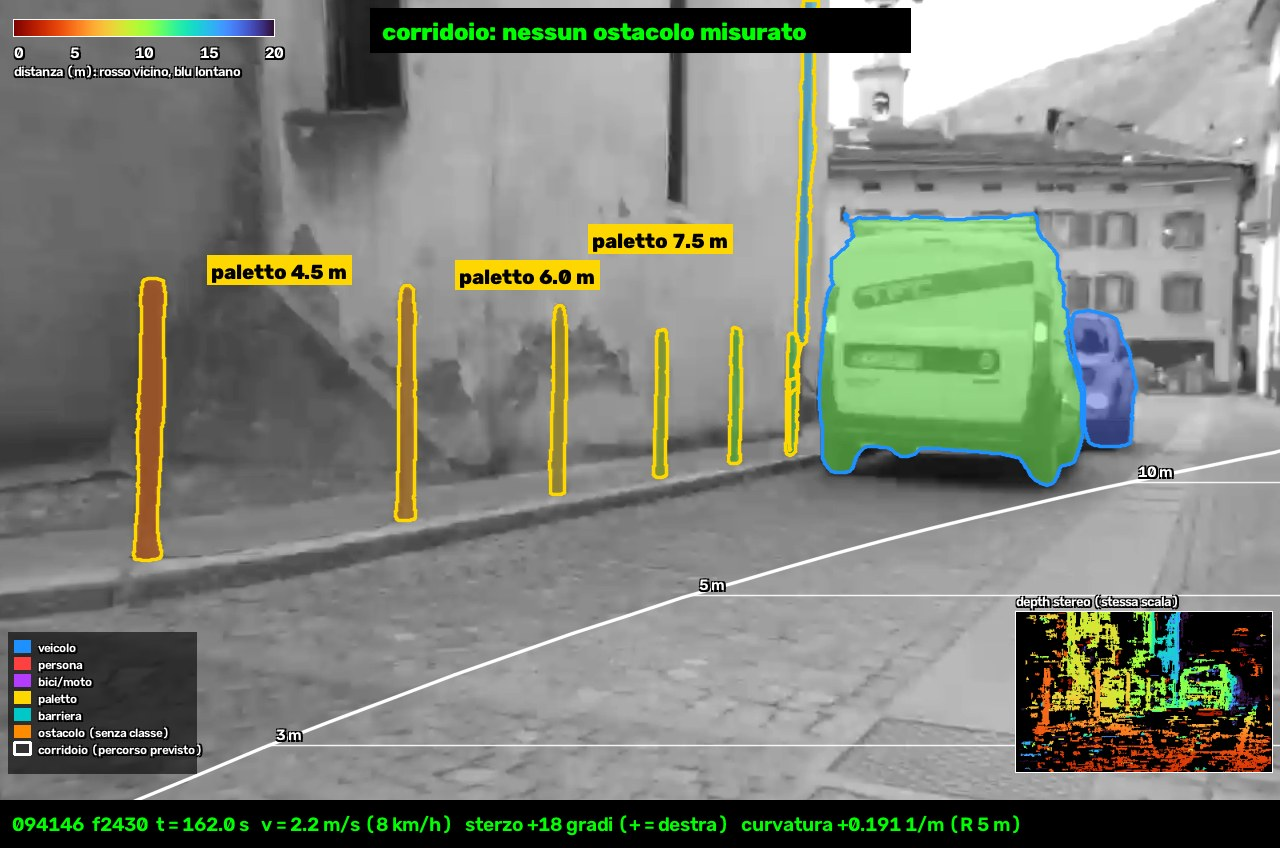
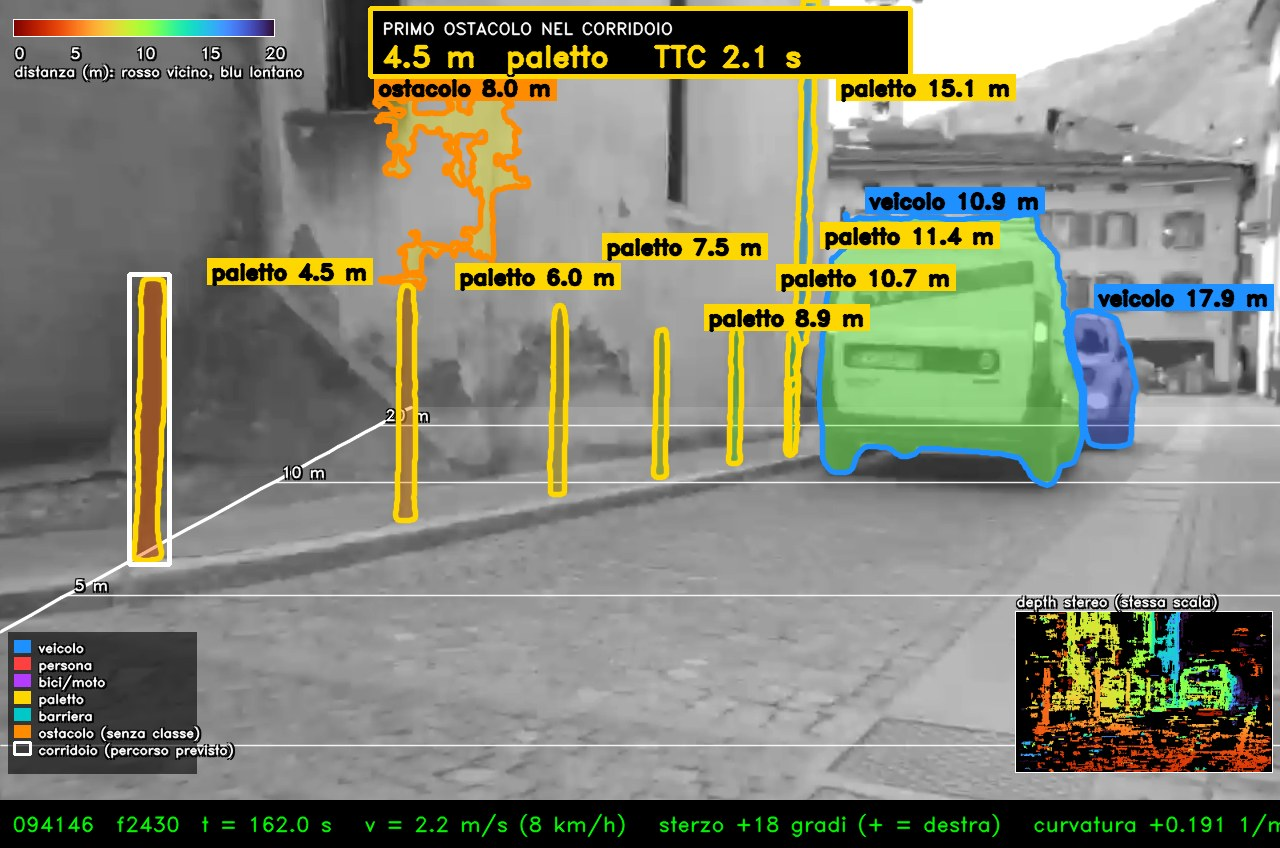
depth video #001 giro 7: blob a 3 fotogrammi sotto 5 m, corridoio a tre ipotesi (dritto, curvo, arco) con +0.1Z, Z grezza se il Kalman allontana di >0.7 m

diff --git a/projects/asmile/training/depth/video_fluido_001.py b/projects/asmile/training/depth/video_fluido_001.py
@@ -10,10 +10,17 @@ import os, sys, json, pickle, subprocess, argparse, csv
 import numpy as np, cv2
 from scipy.optimize import linear_sum_assignment
 import depth_seg_001 as D
-from ego_001 import Ego, x_path, path_xz
+from ego_001 import Ego, x_path, path_xz, x_arc
 
 W, H, BAR = 1280, 800, 48
-OUT = os.path.join(D.HERE, "out_20261112_v6")
+MODE = os.environ.get("VFMODE", "v7")          # "v6" = regole del giro 6 (per il prima/dopo), "v7" = regole del giro 7
+PURE = os.environ.get("VF_PURE", "1") == "1"      # v7: terza ipotesi = arco a curvatura costante (il percorso reale in curva stretta si avvolge piu' del previsto)
+EXTRA = float(os.environ.get("VF_EXTRA", "0.1"))   # allargamento aggiuntivo del corridoio per m di distanza (m/m), 0 = nessuno
+OUT_A = os.path.join(D.HERE, "out_20261112_v6")  # stadio A (misure per fotogramma) INVARIATO: riletto da v6
+OUT = os.environ.get("VF_OUT", os.path.join(D.HERE, "out_20261112_v7"))
+os.makedirs(OUT, exist_ok=True)
+Z_RAW_GAP, Z_RAW_MAXZ = 0.7, 8.0   # v7 punto 3: se Z_filtrata - Z_grezza > 0.7 m sotto 8 m si usa la grezza (vince la piu' vicina)
+HITS_BLOB_NEAR, ZNEAR_BLOB = 3, 5.0  # v7 punto 1: sotto 5 m un blob senza classe conferma a 3 fotogrammi come gli altri
 SAM_DIR = os.path.join(D.HERE, "..", "..", "asmile-loggers", "_seg_sam3")
 FAMCOL = {"veicolo": (255, 144, 30), "persona": (64, 64, 255), "bici-moto": (255, 60, 180), "paletto-palo": (0, 215, 255),
           "barriera-cancello": (200, 200, 0), "altro": (170, 170, 170), "ostacolo": (0, 140, 255)}
@@ -36,6 +43,20 @@ def zcol(Z):
 
 
 def wband(Z): return 1.5 + 0.03 * Z
+
+
+def corr_edges(xc, Z):
+    """bordi laterali del corridoio disegnato: v6 = banda attorno al percorso curvo; v7 = inviluppo delle due ipotesi (percorso curvo e dritto)"""
+    if MODE != "v7": return xc - wband(Z), xc + wband(Z)
+    w = wband(Z) + EXTRA * Z
+    return min(xc, 0.0) - w, max(xc, 0.0) + w   # (l'arco puro, terza ipotesi, vale per la classificazione degli oggetti; il disegno mostra l'inviluppo dritto/decrescente)
+
+
+def need_hits(r):
+    """fotogrammi richiesti perche' un oggetto conti come candidato/si disegni: blob 8 (v6); in v7 sotto 5 m anche i blob 3"""
+    if r["src"] != "blob": return CONFIRM
+    if MODE == "v7" and r["Z"] < ZNEAR_BLOB: return HITS_BLOB_NEAR
+    return HITS_BLOB
 
 
 def iou(a, b):
@@ -62,7 +83,7 @@ class Track:
         sa = 0.3 if s.stat else 1.0
         s.sa = sa; s.x = np.array([Z, 0.0]); sg = s.sig(Z); s.P = np.diag([sg ** 2, (0.3 if s.stat else 1.0) ** 2])
         s.out = 0; s.tan = o["X"] / max(o["Z_picco"], 0.1); s.decl = [bool(o["declassato"])]; s.sosp = [bool(o["sospetto"])]
-        s.in_arc = False; s.lastfirst = False; s.lab_xy = None; s.o = o; s.Zraw = [o["Z_picco"]]; s.t_obs = [t]; s.Zf = [Z]; s.s_obs = []
+        s.in_arc = False; s.in_str = False; s.lastfirst = False; s.lab_xy = None; s.o = o; s.Zraw = [o["Z_picco"]]; s.t_obs = [t]; s.Zf = [Z]; s.s_obs = []
 
     @staticmethod
     def sig(Z): return float(np.hypot(0.03 * Z, Z * Z * 0.4 / (F_PX * B_M)))
@@ -136,7 +157,9 @@ def run_tracking(frames, ego, famv2):
             if tr.hits >= CONFIRM and tr.miss <= COAST:
                 tr.fam = max(set(tr.fams[-15:]), key=tr.fams[-15:].count)
                 pb = [int(v) for v in tr.pred_box(0.0)] if tr.miss else list(tr.o["box"])
-                rows.append(dict(id=tr.id, fam=tr.fam, src=tr.src, classe=tr.classe, Z=float(tr.x[0]), w=float(tr.x[1]), Zraw=float(tr.o["Z_picco"]), tan=float(tr.tan), box=pb, poly=None if tr.miss else tr.o["poly"],
+                zf = float(tr.x[0]); zr = float(tr.o["Z_picco"]); zu = zf
+                if MODE == "v7" and not tr.miss and zf - zr > Z_RAW_GAP and zf < Z_RAW_MAXZ: zu = zr    # punto 3: il filtro non allontana: vince la grezza (piu' vicina)
+                rows.append(dict(id=tr.id, fam=tr.fam, src=tr.src, classe=tr.classe, Z=zu, Zf=zf, rawfix=zu != zf, w=float(tr.x[1]), Zraw=float(tr.o["Z_picco"]), tan=float(tr.tan), box=pb, poly=None if tr.miss else tr.o["poly"],
                                  decl=bool(np.mean(tr.decl[-8:]) > 0.5), sosp=bool(np.mean(tr.sosp[-8:]) > 0.5), ext=tr.o.get("ext", False), hits=tr.hits, coast=tr.miss > 0, track=tr))
         per.append(rows)
     return per
@@ -150,10 +173,16 @@ def corridor_logic(per, frames, ego):
         for r in rows:
             Z = r["Z"]; X = r["tan"] * Z; r["X"] = X
             dx_arc = X - float(np.interp(Z, pz, px)); tr = r["track"]
-            lim = wband(Z) * (1.15 if tr.in_arc else 1.0)
+            lim = (wband(Z) + (EXTRA * Z if MODE == "v7" else 0.0)) * (1.15 if tr.in_arc else 1.0)
             tr.in_arc = abs(dx_arc) <= lim; r["in_arc"] = tr.in_arc
             r["in_str"] = abs(X) <= wband(Z)
-            r["cand"] = (not r["decl"]) and (not r["sosp"]) and r["hits"] >= (HITS_BLOB if r["src"] == "blob" else CONFIRM)
+            if MODE == "v7":   # punto 2: corridoio = unione delle ipotesi (percorso curvo O dritto), ognuna con la sua banda
+                lim2 = (wband(Z) + EXTRA * Z) * (1.15 if tr.in_str else 1.0)
+                tr.in_str = abs(X) <= lim2
+                r["in_arc_pure"] = r["in_arc"]; r["in_arc"] = bool(r["in_arc"] or tr.in_str); r["in_str"] = bool(r["in_str"] or tr.in_str)
+                if PURE and not r["in_arc"]:
+                    r["in_arc"] = bool(abs(X - float(x_arc(k, Z))) <= wband(Z) + EXTRA * Z)
+            r["cand"] = (not r["decl"]) and (not r["sosp"]) and r["hits"] >= need_hits(r)
         first = {}
         for key, flag in (("arc", "in_arc"), ("str", "in_str")):
             c = [r for r in rows if r[flag] and r["cand"]]
@@ -198,7 +227,8 @@ def draw(img, fr, rows, cs, gp, zthumb, ego, sess, t0, i):
         Zs = np.geomspace(1.8, 30.0, 40); pz, px = path_xz(k); Lp, Rp, Cp = [], [], []
         for Z in Zs:
             xc = float(np.interp(Z, pz, px)); d = F_PX * B_M / Z
-            for X, o in ((xc - wband(Z), Lp), (xc + wband(Z), Rp), (xc, Cp)):
+            lo, hi = corr_edges(xc, Z)
+            for X, o in ((lo, Lp), (hi, Rp), (xc, Cp)):
                 u = cx + X * F_PX / Z; o.append((u, gvh + (d - gb * (u - cx)) / ga))
         poly = np.array(Lp + Rp[::-1], np.int32)
         lay = out.copy(); cv2.fillPoly(lay, [poly], CORR); out = cv2.addWeighted(lay, 0.13, out, 0.87, 0)
@@ -206,12 +236,12 @@ def draw(img, fr, rows, cs, gp, zthumb, ego, sess, t0, i):
         for Zt in (3, 5, 10, 20):
             xc = float(np.interp(Zt, pz, px)); d = F_PX * B_M / Zt
             pts = []
-            for X in (xc - wband(Zt), xc + wband(Zt)):
+            for X in corr_edges(xc, Zt):
                 u = cx + X * F_PX / Zt; pts.append((int(u), int(gvh + (d - gb * (u - cx)) / ga)))
             if 0 < pts[0][1] < H - 10:
                 cv2.line(out, pts[0], pts[1], CORR, 1, cv2.LINE_AA); shadow(out, min(pts[0][0], pts[1][0]) + 8, pts[0][1] - 5, f"{Zt} m", 0.5, CORR, 1)
     first = cs["first"]["arc"]; fid = None if first is None else first["id"]
-    draw_rows = [r for r in rows if not r["coast"] and r["Z"] <= 40 and not r["decl"] and not (r["src"] == "blob" and r["hits"] < HITS_BLOB) and not r["sosp"]
+    draw_rows = [r for r in rows if not r["coast"] and r["Z"] <= 40 and not r["decl"] and not (r["src"] == "blob" and r["hits"] < need_hits(r)) and not r["sosp"]
                  and (r["src"] != "blob" or (r["in_arc"] and r["Z"] <= 8)) and (r["fam"] in ("persona", "veicolo", "bici-moto", "paletto-palo", "barriera-cancello", "ostacolo") or r["in_arc"] or r["Z"] < 8)]
     solid = [r for r in draw_rows if r["src"] != "blob"]
     cont_ = lambda a, b: max(0, min(a[2], b[2]) - max(a[0], b[0])) * max(0, min(a[3], b[3]) - max(a[1], b[1])) / max(1e-9, (a[2] - a[0]) * (a[3] - a[1]))
@@ -278,7 +308,7 @@ def draw(img, fr, rows, cs, gp, zthumb, ego, sess, t0, i):
 def main():
     ap = argparse.ArgumentParser(); ap.add_argument("session"); ap.add_argument("--jpg", default=""); ap.add_argument("--out", default=None); ap.add_argument("--stats-only", action="store_true"); a = ap.parse_args()
     sess = "session_" + a.session.replace("session_", ""); sid = sess[8:]
-    frames = pickle.load(open(os.path.join(OUT, sess + "_A", "frames.pkl"), "rb")); zf_ = os.path.join(OUT, sess + "_A", "zmap.npz"); zm = np.load(zf_) if os.path.exists(zf_) else None
+    frames = pickle.load(open(os.path.join(OUT_A, sess + "_A", "frames.pkl"), "rb")); zf_ = os.path.join(OUT_A, sess + "_A", "zmap.npz"); zm = np.load(zf_) if os.path.exists(zf_) else None
     ego = Ego(sess); famv2 = load_famv2(sess)
     per = run_tracking(frames, ego, famv2); cs = corridor_logic(per, frames, ego)
     f0, f1 = frames[0]["frame"], frames[-1]["frame"]; t0 = D.read_t(sess, "right")[0]

diff --git a/projects/asmile/training/depth/verifica_v7_001.py b/projects/asmile/training/depth/verifica_v7_001.py
@@ -1,0 +1,76 @@
+#!/usr/bin/env python3
+"""verifica_v7_001.py — confronto prima/dopo del giro 7 (12/11/2026) con la traiettoria REALE ricostruita (encoder ruota + giroscopio gz, integrati nel tempo)
+e oggetti considerati FERMI (posizione mondo = mediana sulla vita della traccia, retrospettiva). Regole fissate prima:
+ - verita' 'in percorso reale': distanza minima dell'oggetto dai punti reali percorsi dalla bici da t fino a s(t)+Z+2 m <= 1.5 m; tracce con >=6 fotogrammi di vita, non declassate/sospette;
+ - verita' primo ostacolo <5 m = oggetto vero piu' vicino in percorso reale con Z<5;
+ - ritardo = corsa piu' lunga di fotogrammi consecutivi con verita' <5 m presente e primo ostacolo del sistema (corridoio) assente o >=5 m.
+Uso: verifica_v7_001.py DIR_TRACKS [SESSIONE]"""
+import sys, os, pickle, json, numpy as np
+from ego_001 import Ego
+d = sys.argv[1]; sess = sys.argv[2] if len(sys.argv) > 2 else "20261109_094146"
+T = pickle.load(open(os.path.join(d, f"tracks_{sess}.pkl"), "rb")); ego = Ego("session_" + sess)
+t = np.array(T["t_ms"]); n = len(t)
+# traiettoria reale su griglia ego
+psi = np.concatenate([[0], np.cumsum(np.radians(0.5 * (ego.yaw_s[1:] + ego.yaw_s[:-1])) * np.diff(ego.t) / 1000)])
+vv = ego.v_s; pe = np.concatenate([[0], np.cumsum(0.5 * (vv[1:] + vv[:-1]) * np.diff(ego.t) / 1000)])
+pn = np.concatenate([[0], np.cumsum(np.cos(psi[:-1]) * 0.5 * (vv[1:] + vv[:-1]) * np.diff(ego.t) / 1000)])
+pe = np.concatenate([[0], np.cumsum(np.sin(psi[:-1]) * 0.5 * (vv[1:] + vv[:-1]) * np.diff(ego.t) / 1000)])
+sarc = ego.s - ego.s[0]
+I = lambda a, x: np.interp(x, ego.t, a)
+# posizione mondo di ogni traccia (mediana)
+W = {}
+for i, rows in enumerate(T["per"]):
+    for r in rows:
+        if r["coast"]: continue
+        ps, e0, n0 = I(psi, t[i]), I(pe, t[i]), I(pn, t[i]); Z = r["Z"]; X = r["tan"] * Z
+        W.setdefault(r["id"], []).append((e0 + Z * np.sin(ps) + X * np.cos(ps), n0 + Z * np.cos(ps) - X * np.sin(ps)))
+life = {k: len(v) for k, v in W.items()}; Wm = {k: np.median(np.array(v), 0) for k, v in W.items()}
+def dpath(k, i):
+    s0 = I(sarc, t[i]); Z = None
+    msk = (ego.t >= t[i]) & (sarc <= s0 + 80)
+    return None
+truth = []; missrun = 0; best = 0; runs = []
+veh_out = []; first_Z = []
+for i, rows in enumerate(T["per"]):
+    s0 = I(sarc, t[i]); idx = np.nonzero((ego.t >= t[i] - 200))[0]
+    best_o = None
+    for r in rows:
+        if r["coast"] or r["decl"] or r["sosp"] or life[r["id"]] < 6 or r["Z"] > 25: continue
+        Z = r["Z"]; m = (ego.t >= t[i]) & (sarc <= s0 + Z + 2.0)
+        if m.sum() < 2: continue
+        dm = np.hypot(pe[m] - Wm[r["id"]][0], pn[m] - Wm[r["id"]][1]).min()
+        r["dreal"] = dm
+        if dm <= 1.5 and (best_o is None or Z < best_o["Z"]): best_o = r
+        if dm <= 1.5 and r["fam"] == "veicolo" and not r["in_arc"] and Z < 25: veh_out.append((i, r["id"], round(Z, 1), round(dm, 2)))
+    truth.append(best_o)
+fz = T["cs"]; sysfirst = [c["firstZ"]["arc"] for c in fz]
+cur = 0; runs = []; start = None
+for i in range(n):
+    tr = truth[i]
+    if tr is not None and tr["Z"] < 5 and (sysfirst[i] is None or sysfirst[i] >= 5):
+        if start is None: start = i
+    else:
+        if start is not None: runs.append((start, i - start)); start = None
+if start is not None: runs.append((start, n - start))
+runs.sort(key=lambda x: -x[1])
+fr = np.array([tr is not None and tr["Z"] < 5 for tr in truth]); nsys = int(sum(1 for i in range(n) if fr[i] and (sysfirst[i] is None or sysfirst[i] >= 5)))
+tf = {k: 0 for k in ("vehicle", "tot")}
+vids = {}
+for (i, k, z, dm) in veh_out: vids.setdefault(k, []).append(i)
+# Kalman: Z_filtrata - Z_grezza > 0.7 sotto 8 m
+gap = [(r["Zf"] if "Zf" in r else r["Z"]) - r["Zraw"] for rows in T["per"] for r in rows if not r["coast"] and r["Zraw"] < 8 and r["Z"] < 8]
+usegap = [r["Z"] - r["Zraw"] for rows in T["per"] for r in rows if not r["coast"] and r["Zraw"] < 8 and r["Z"] < 8]
+gapn = int(sum(g > 0.7 for g in gap)); usen = int(sum(g > 0.7 for g in usegap))
+# primo ostacolo con classe/senza
+fam_first = {}
+for i, c in enumerate(T["cs"]):
+    fid = c["first"]["arc"]
+    if fid is None: continue
+    r = next((q for q in T["per"][i] if q["id"] == fid), None)
+    if r: fam_first[r["fam"]] = fam_first.get(r["fam"], 0) + 1
+out = dict(sess=sess, n=n, fotogrammi_verita_sotto5=int(fr.sum()), fotogrammi_sistema_manca=nsys, corsa_max_fr=runs[0][1] if runs else 0, corsa_max_s=round((runs[0][1] / 15), 2) if runs else 0,
+           corse_top=[(int(a), int(b)) for a, b in runs[:5]], veicoli_vicini_traiett_fuori_corridoio_fotogrammi=len(veh_out), veicoli_id=sorted(vids), veicoli_fotogrammi_per_id={str(k): (min(v), max(v), len(v)) for k, v in vids.items()},
+           kalman_gap_gt07_sotto8=gapn, kalman_gap_dopo_uso=usen, righe_sotto8=len(gap), primo_per_famiglia=fam_first,
+           fotogrammi_con_primo=int(sum(z is not None for z in sysfirst)), fotogrammi_primo_sotto5=int(sum(z is not None and z < 5 for z in sysfirst)))
+print(json.dumps(out, indent=1))
+json.dump(out, open(os.path.join(d, f"verifica_{sess}.json"), "w"), indent=1)

diff --git a/projects/asmile/agents/rapporti/depth_video_001_20261112_v7.md b/projects/asmile/agents/rapporti/depth_video_001_20261112_v7.md
@@ -1,0 +1,35 @@
+# Depth video #001, giro 7: ritardo blob, corridoio a tre ipotesi, Kalman che non allontana (12/11/2026)
+
+Verticale percezione, `asmile-depth`, gate `L1.depth_video`, solo #001 (calib provvisoria B30). Base v6. NON toccati: stadio A (misure per fotogramma, SAM 3 riusato, nessun SAM nuovo), filtro muri (non esiste), regole di distanza v5, calib. Cambia solo `training/depth/video_fluido_001.py` (stadio B). Codice del confronto: `training/depth/verifica_v7_001.py`. La modalità `VFMODE=v6` rigira le regole di ieri: `cs` identico a quello salvato in v6 (controllo fatto), quindi il prima/dopo è onesto.
+
+Video (locali, mai su git; 1350 e 406 fotogrammi, 15 fps):
+- `/Users/danielerinaldi/progetti/Moving-One-Billion-People-/projects/asmile/training/depth/out_20261112_v7/video_fluido_094146_125-215.mp4` (90.0 s)
+- `/Users/danielerinaldi/progetti/Moving-One-Billion-People-/projects/asmile/training/depth/out_20261112_v7/video_fluido_093909.mp4` (27.1 s)
+
+## Regole (fissate prima, decisione registrata)
+1. Blob senza classe: conferma a 3 fotogrammi se Z < 5 m, 8 sopra (prima sempre 8).
+2. Corridoio = unione di tre ipotesi: percorso curvo a curvatura decrescente (v6), dritto, arco a curvatura costante; ciascuna con banda `1.5 + 0.03 Z + 0.1 Z` (+0.5 m ogni 5 m, valore suggerito da occhio). Il disegno mostra l'inviluppo dritto/decrescente; l'arco costante vale per la classificazione.
+3. Z mostrata/usata = grezza se Z filtrata - Z grezza > 0.7 m e Z < 8 m (vince la più vicina).
+
+## Verifica (094146, 1350 fotogrammi; traiettoria reale encoder+gz, oggetti fermi, tracce >= 6 fotogrammi)
+Verità "in percorso reale" = oggetto entro 1.5 m dai punti realmente percorsi fino a s+Z+2 m. 308 fotogrammi con un ostacolo vero < 5 m.
+
+| Misura | v6 | v7 |
+|---|---|---|
+| Corsa max con ostacolo vero < 5 m ma sistema senza primo ostacolo < 5 m | 6 fotogrammi = 0.40 s (8 fotogrammi mancanti in tutto) | 0 (0 mancanti) |
+| Fotogrammi con veicolo entro 1.5 m dalla traiettoria reale ma fuori corridoio | 77 (id 1, 826, 837, 3041) | 0 |
+| Righe < 8 m con Z filtrata - grezza > 0.7 m | 73 | 0 dopo l'uso della grezza |
+| Fotogrammi con un primo ostacolo | 1217 | 1338 |
+
+Per arrivare a 0 veicoli: solo dritto OR decrescente 37 fotogrammi; +0.1Z 7; +0.2Z 3; arco costante senza extra 17; arco costante + 0.1Z 0. Causa dei residui: curva stretta k = 0.28 (raggio 3.5 m) a f2425-2430, il percorso reale si avvolge più del decrescente.
+Punti citati da occhio (v6 -> v7, primo ostacolo scritto): f2396 nessuno -> furgone 5.9 m; f2430 nessuno -> 4.5 m; f2445 9.4 -> 4.1 m; f2448 8.4 -> 5.0 m; f3173 nessuno -> 2.5 m (il primo è un oggetto più vicino dell'auto verde, che resta nel corridoio a 10.2 m: NON verificato guardando se sia un ostacolo vero).
+093909: nessun ostacolo vero < 5 m secondo la mia definizione (0 fotogrammi di verità: tracce di paletti non confermati >= 6 fotogrammi o fuori da 1.5 m dal percorso), regressione: 0 mancanti, Kalman 10 righe -> 0.
+
+## Prezzo dichiarato: muri tornano "primo ostacolo"
+094146: il primo ostacolo cambia in 636 fotogrammi; 121 fotogrammi passano da corridoio libero a occupato (0 il contrario). Per famiglia (fotogrammi / tracce nuove): senza classe 95 / 30, altro 112 / 16, paletti 219 / 32, veicoli 157 / 9, persone 53 / 9. Quindi blob senza classe + "altro" (i candidati muri) = 207 fotogrammi, 46 tracce. NON guardati uno a uno: una parte sarà muro/facciata vera (filtro muri vietato), una parte ostacoli veri. 093909: 21 fotogrammi, 2 tracce.
+
+## Limiti
+- Verità = traiettoria ricostruita e oggetti ritenuti fermi (veicoli in moto sbagliano), retrospettiva; non è il metro in moto. Distanze invariate rispetto a v5/v6 (pendenza 1.12 non risolta).
+- L'extra 0.1Z e l'arco costante sono scelti sulla stessa sessione (4 veicoli), non held-out; corridoio molto più largo a 20 m (3.7 m + curvatura).
+- La regola 3 non ferma tutti i salti: vale solo sotto 8 m e quando c'è una misura grezza.
+- TTC persone/veicoli ancora non validato.

diff --git a/projects/asmile/agents/decisioni/asmile-depth.md b/projects/asmile/agents/decisioni/asmile-depth.md
@@ -20,3 +20,4 @@ Scritte con `palla.py decido` mentre lavora. Append-only: una decisione sbagliat
 - 2026-11-12 17:06 **video fluido #001 v6: SAM 3 a 15 Hz pieno, nessuna propagazione** → SAM 3 su tutti i 1350 fotogrammi del tratto 094146 (t=125-215 s dall'inizio, indici 1875-3224) + 408 di 093909: 1758 frame x ~2.4 s misurati = ~70 min (<75 min di soglia), 1 processo MPS; depth in parallelo su CPU leggendo l'indice SAM man mano. Perché: sotto la soglia di 75 min; evita propagazione di maschere che introdurrebbe errori di bordo. Scartato: SAM a 5 Hz + tracking maschere: serve solo se il tempo supera 75 min.
 - 2026-11-12 17:09 **corridoio curvo v6: curvatura da giroscopio gz + encoder, ramo sterzo sotto 1.5 m/s** → k=yaw_dx/v (yaw_dx=-(gz-1.75 dps), media centrata +-0.2 s); per v<1.5 m/s k=0.00968*sterzo_deg (c fittato sui dati, corr 0.93); corridoio = arco di larghezza invariata 1.5+0.03Z; passata blob aggiuntiva solo in curva (|k|>0.01) sui pixel dentro l'arco e fuori dalla banda dritta; passata S identica a v5. Perché: gz corr -0.952 con lo sterzo (gx 0.02, gy -0.15), picco di correlazione a lag 0; con v<1.5 il rapporto yaw/v e' instabile; senza la passata E gli ostacoli senza classe fuori banda dritta ma dentro l'arco non sarebbero mai misurati. Scartato: sterzo come unica sorgente (non e' rotazione reale); k=yaw/v senza soglia (esplode a bici ferma). Evidenza: `training/depth/ego_001.py`.
 - 2026-11-12 18:10 **corridoio v6: arco a curvatura decrescente invece di arco puro** → percorso previsto con k(s)=k0*exp(-s/3.5 m); stessa larghezza 1.5+0.03Z; rigirata la passata A (SAM in cache). Perché: misurato su 094146 (v>1.5): la curvatura si decorrela in ~4 m di percorso (autocorr 0.61 a 2 m, 0.27 a 4 m, 0.08 a 6 m); l'arco puro a 10 m sbaglia di 0.52 m mediana / 6 m p90 contro 0.33 / 2.1 con la curvatura decrescente (rettilineo 0.39 / 2.4); nel video l'arco puro portava il corridoio fuori strada a 20 m con k=0.03. Stima sulla stessa sessione, non held-out. Scartato: arco puro (peggiore del rettilineo oltre ~8 m); fine del corridoio al raggio 1/k (taglia gli ostacoli lontani). Evidenza: `training/depth/ego_001.py`.
+- 2026-11-12 18:38 **depth video giro 7: tre correzioni di occhio** → (1) blob senza classe confermano a 3 fotogrammi sotto 5 m (8 sopra); (2) corridoio = unione di tre ipotesi: percorso curvo a curvatura decrescente, dritto, arco a curvatura costante, ciascuna con banda 1.5+0.03Z+0.1Z (+0.5 m ogni 5 m, scelta data da occhio); (3) Z mostrata/usata = grezza se Z filtrata - Z grezza > 0.7 m sotto 8 m. Perché: Misurato con traiettoria reale ricostruita (encoder+gz, oggetti fermi): v6 aveva 77 fotogrammi con veicoli entro 1.5 m dalla traiettoria reale fuori corridoio (id 1, 826, 837, 3041); solo l'unione dritto/decrescente li lasciava a 37, +0.1Z a 7, con arco costante e 0.1Z a 0. Curva stretta k=0.28 a f2425-2430: il percorso reale si avvolge piu' del previsto. Scartato: solo allargare a 0.2Z senza arco costante (3 fotogrammi residui, corridoio piu' largo); arco costante senza extra (17 residui). Evidenza: `training/depth/verifica_v7_001.py`.

diff --git a/projects/asmile/agents/lezioni/asmile-depth.md b/projects/asmile/agents/lezioni/asmile-depth.md
@@ -22,3 +22,5 @@ Scritte da palla.py dai VETO dei contro-agenti. Leggile prima di ogni lavoro.
 - 2026-11-12 SBAGLIATO (`agents/rapporti/depth_video_001_20261112_v5.md`): R2 e' tarata su 2 casi del critico; i 561 declassati R1 e 3 blob tornati non guardati; primo tentativo di lanciare le sessioni senza nome completo (4 run persi), prima confronto v4/v5 inquinato da cartelle v3 (glob troppo largo, rifatto); il video mostra ancora muri/vani porta come 'ostacolo' al bordo (filtro muri vietato) e YOLO 'train' come altro.
 - 2026-11-12 GIUSTO (`agents/rapporti/depth_video_001_20261112_v6.md`): Regressione v5 prima di fidarmi del video: 717/717 oggetti ritrovati con Z identica, quindi le regole di distanza non sono cambiate. Prima di scegliere il corridoio ho misurato i dati (gz corr -0.952 con lo sterzo, lag 0, autocorrelazione di k ~4 m): l'arco puro era peggiore del rettilineo oltre 8 m, ho passato a curvatura decrescente e rigirato lo stadio A. Guardando i fotogrammi ho trovato da solo: ombre del testo (outline piu largo), bollard senza ID in curva (serve compensare la rotazione ~22 px/frame), banner che cambiava traccia 363 volte per i blob da 3 frame, TTC con w spurio sui fermi.
 - 2026-11-12 SBAGLIATO (`agents/rapporti/depth_video_001_20261112_v6.md`): Corridoio ad arco puro nella prima versione (fuori strada a 20 m con k=0.03): visto solo dal jpg; HITS_BLOB=8, L_TAPER=3.5 e COAST=4 scelti senza held-out, fit sulla stessa sessione; pendenza -dZ/ds 1.12 (n=23) non spiegata e diversa da 0.98 di v5; orizzonte misurato (riga 386, ~0.9 gradi) incoerente con 7.4 gradi, non capito; 'muri laterali' = blob senza classe, mai verificato guardandoli uno a uno; TTC persone/veicoli non validato; bash sed BSD e cartelle non trovate (3 tentativi persi); Kalman gate/jitter ancora 7% dei salti >0.5 m; nessuna verita col metro in moto.
+- 2026-11-12 GIUSTO (`agents/rapporti/depth_video_001_20261112_v7.md`): Prima di cambiare ho riprodotto v6 in modalita' VFMODE=v6 (cs identico) e ho misurato i punti di occhio con la traiettoria reale: 77 fotogrammi veicolo fuori corridoio, corsa 0.4 s; scelta del corridoio a gradini (37, 7, 3, 17, 0) invece di un numero a occhio; prezzo muri contato e dichiarato (121 fotogrammi liberi->occupati).
+- 2026-11-12 SBAGLIATO (`agents/rapporti/depth_video_001_20261112_v7.md`): Prima ho passato la sessione senza nome completo (cartella non trovata); extra 0.1Z e arco costante tarati sulla stessa sessione su 4 veicoli; verita' = oggetti fermi ricostruiti, non il metro; i 207 fotogrammi blob/altro nuovi non guardati uno a uno; f3173 non verificato a occhio; 093909 senza ostacoli veri <5 m nella mia definizione.
